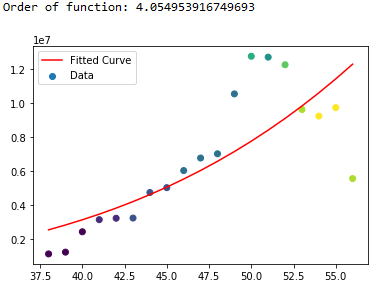
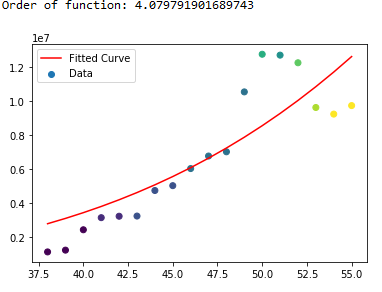
Minor curve fitting bug fix

diff --git a/curve_fit.py b/curve_fit.py
@@ -73,7 +73,7 @@ def curve_fit_cpu(filename, start_index, end_index):
     plt.legend()
     plt.show()
 
-#curve_fit_network_in("data/robot_ball.csv", 38, 57)
-#curve_fit_cpu("data/robot_ball.csv", 38, 57)
+#curve_fit_network_in("data/robot_ball.csv", 38, 56)
+curve_fit_cpu("data/robot_ball.csv", 38, 56)
 #curve_fit_network_in("data/unity_dots.csv", 100, 200)
 #curve_fit_cpu("data/unity_dots.csv", 100, 200)
